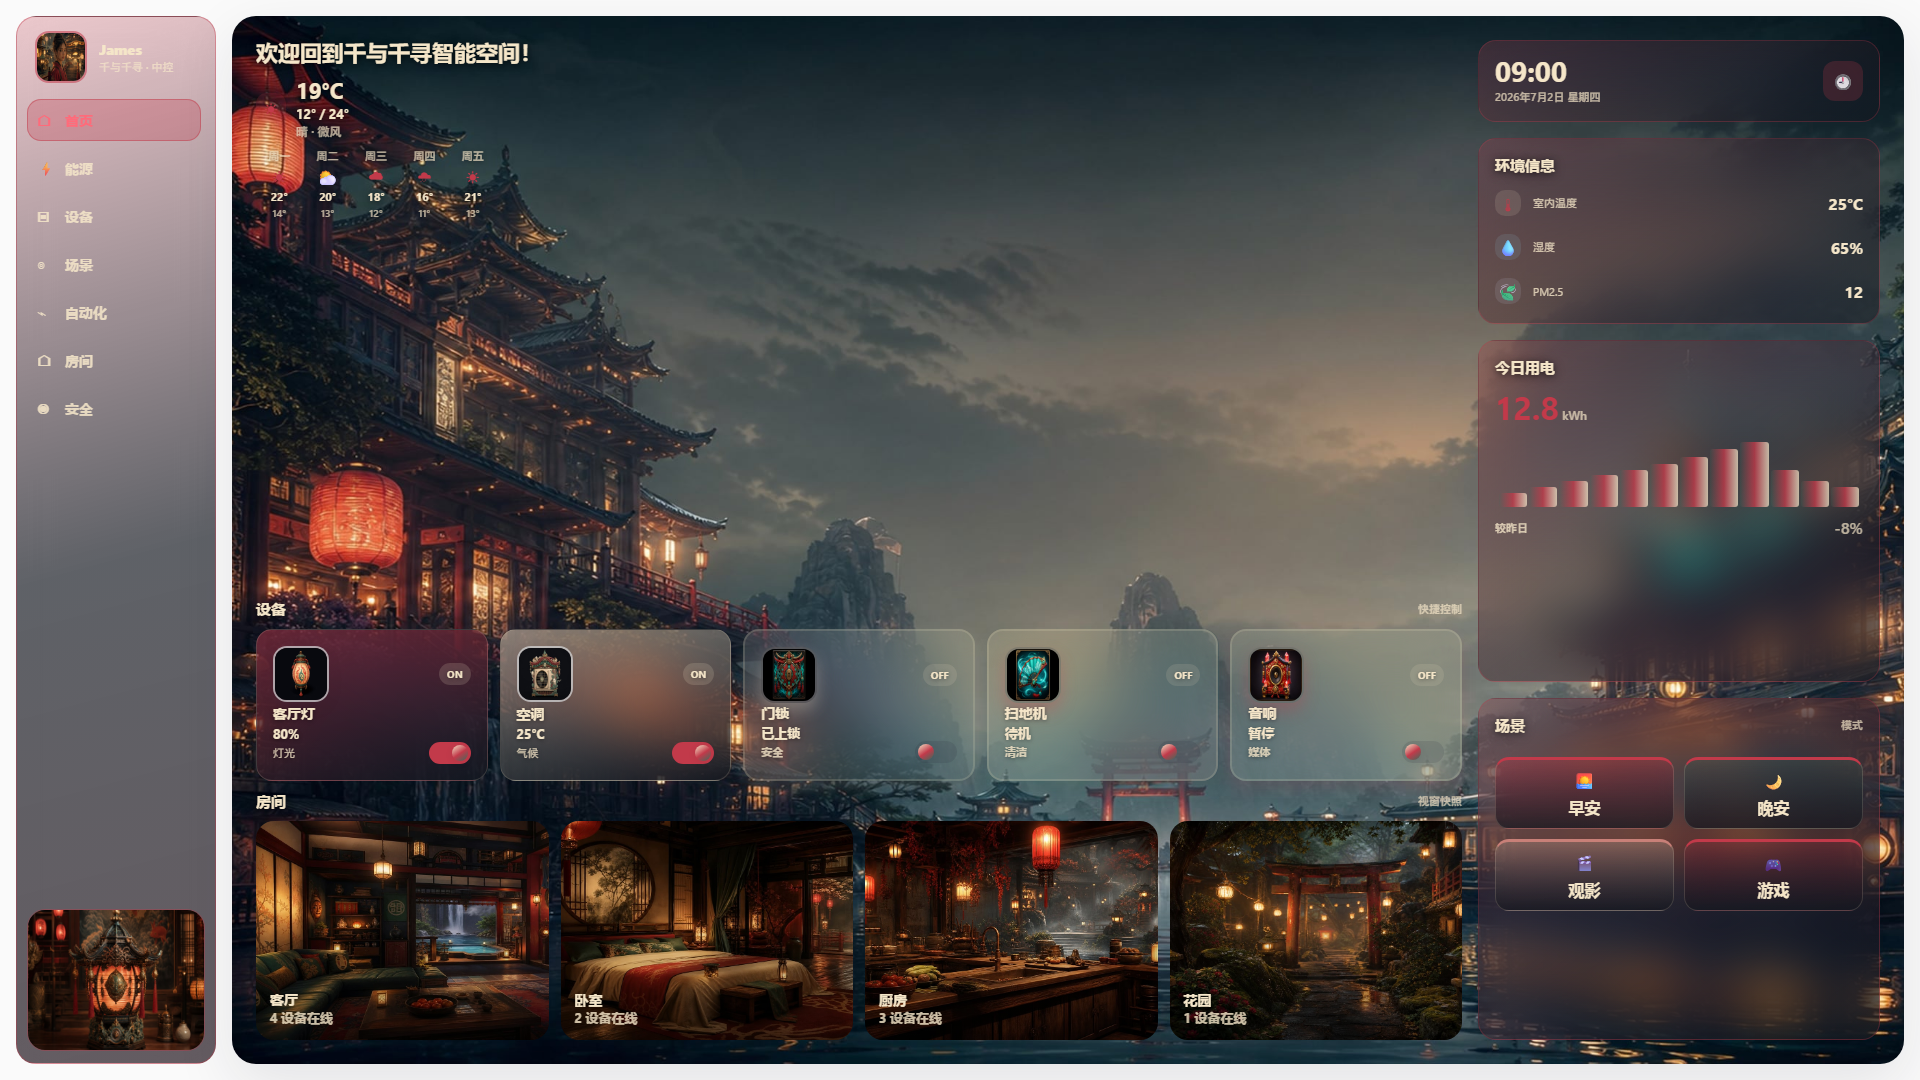
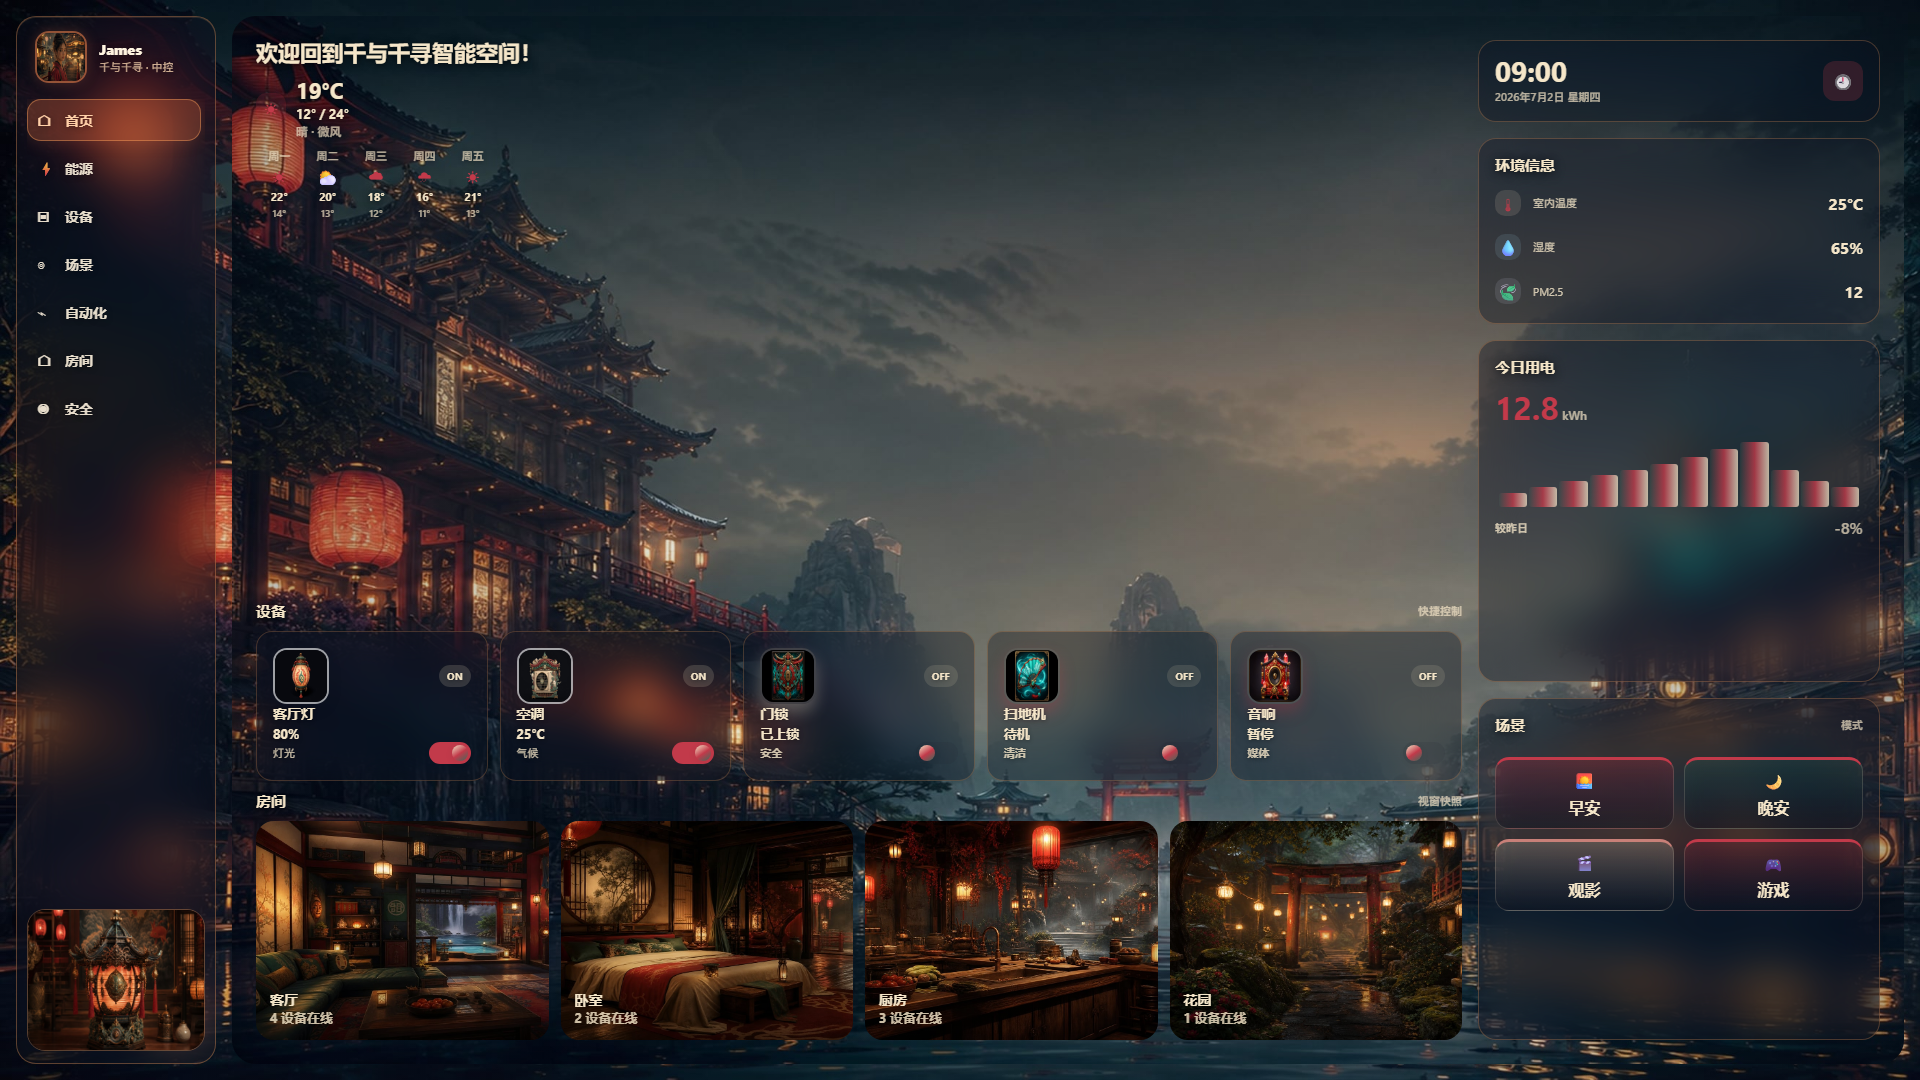
fix(skins): spirited-away translucent night-glass sidebar matching background

diff --git a/skins-pro/spirited-away/theme.css b/skins-pro/spirited-away/theme.css
@@ -814,6 +814,7 @@ button { font:inherit; }
 
 
 
+
 /* skins-pro weather layout patch */
 .welcome-group .welcome .quote { display:none; }
 
@@ -1132,44 +1133,62 @@ button { font:inherit; }
   }
 }
 
-/* skins-pro spirited-away polish v1 */
-/* 汤屋暖红磨砂侧栏，贴合首页玻璃卡；米白字可读 */
+/* skins-pro spirited-away polish v2 */
+/* 侧栏透出汤屋夜景：半透明夜色磨砂 + 灯笼暖边，贴近背景图 */
 :host {
-  --sp-sidebar-bg: linear-gradient(165deg, rgba(194, 58, 74, 0.28), rgba(20, 24, 32, 0.70) 48%, rgba(42, 28, 36, 0.72)) !important;
-  --sp-sidebar-text: #F5E6C9 !important;
-  --sp-sidebar-text-muted: rgba(245, 230, 201, 0.82) !important;
-  --sp-sidebar-active-bg: rgba(194, 58, 74, 0.30) !important;
-  --sp-sidebar-active-text: #FF6B7A !important;
+  --sp-app-overlay: linear-gradient(180deg, rgba(12, 16, 28, 0.18), rgba(12, 16, 28, 0.08) 40%, rgba(18, 22, 34, 0.22)) !important;
+  --sp-stage-overlay: linear-gradient(90deg, rgba(8, 12, 24, 0.28), rgba(8, 12, 24, 0.06) 36%, rgba(8, 12, 24, 0.10) 68%, rgba(8, 12, 24, 0.32)) !important;
+  --sp-sidebar-bg: rgba(16, 20, 32, 0.34) !important;
+  --sp-sidebar-text: #FFF4E0 !important;
+  --sp-sidebar-text-muted: rgba(255, 244, 224, 0.86) !important;
+  --sp-sidebar-active-bg: rgba(255, 120, 64, 0.28) !important;
+  --sp-sidebar-active-text: #FFB07A !important;
+  --sp-glass-bg: rgba(16, 20, 32, 0.38) !important;
+  --sp-panel-bg: rgba(16, 20, 32, 0.42) !important;
+  --sp-card-bg: linear-gradient(145deg, rgba(255, 120, 64, 0.16), rgba(16, 20, 32, 0.40)) !important;
   --sp-shadow-glass: none !important;
   --sp-shadow-card: none !important;
+  --sp-shadow-md: none !important;
+  --sp-shadow-lg: none !important;
+}
+.mc-app {
+  background-color: transparent !important;
+  background-image: var(--sp-app-overlay), var(--sp-base-texture) !important;
+  background-size: cover, cover !important;
+  background-position: center, center !important;
+}
+.stage {
+  background-color: transparent !important;
+  box-shadow: none !important;
 }
 .sidebar {
-  background: linear-gradient(165deg, rgba(194, 58, 74, 0.26), rgba(20, 24, 32, 0.68) 52%, rgba(36, 24, 32, 0.70)) !important;
-  border: 1px solid rgba(194, 58, 74, 0.42) !important;
-  box-shadow: none !important;
-  backdrop-filter: blur(28px) saturate(160%) !important;
-  -webkit-backdrop-filter: blur(28px) saturate(160%) !important;
+  background: rgba(14, 18, 30, 0.32) !important;
+  border: 1px solid rgba(255, 168, 96, 0.34) !important;
+  box-shadow: inset 0 1px 0 rgba(255, 200, 140, 0.12) !important;
+  backdrop-filter: blur(26px) saturate(145%) !important;
+  -webkit-backdrop-filter: blur(26px) saturate(145%) !important;
 }
 .profile .meta h3,
 .sidebar .profile h3 {
-  color: #F5E6C9 !important;
-  text-shadow: none !important;
+  color: #FFF4E0 !important;
+  text-shadow: 0 1px 8px rgba(0, 0, 0, 0.45) !important;
   font-weight: 800 !important;
 }
 .profile .meta .muted,
 .sidebar .muted {
-  color: rgba(245, 230, 201, 0.78) !important;
-  text-shadow: none !important;
+  color: rgba(255, 220, 180, 0.82) !important;
+  text-shadow: 0 1px 6px rgba(0, 0, 0, 0.40) !important;
 }
 .profile-img {
-  border-color: rgba(194, 58, 74, 0.55) !important;
-  box-shadow: none !important;
+  border-color: rgba(255, 140, 80, 0.55) !important;
+  box-shadow: 0 0 14px rgba(255, 120, 64, 0.22) !important;
 }
 .nav-button,
 .sidebar .nav-button {
-  color: rgba(245, 230, 201, 0.88) !important;
+  color: rgba(255, 244, 224, 0.90) !important;
   font-weight: 800 !important;
   opacity: 1 !important;
+  text-shadow: 0 1px 6px rgba(0, 0, 0, 0.40) !important;
 }
 .nav-button ha-icon,
 .nav-button .icon,
@@ -1181,14 +1200,14 @@ button { font:inherit; }
 .nav-button.active,
 .sidebar .nav-button:hover,
 .sidebar .nav-button.active {
-  color: #FF6B7A !important;
-  background: rgba(194, 58, 74, 0.28) !important;
-  box-shadow: inset 0 0 0 1px rgba(194, 58, 74, 0.48) !important;
+  color: #FFD0A8 !important;
+  background: rgba(255, 120, 64, 0.26) !important;
+  box-shadow: inset 0 0 0 1px rgba(255, 168, 96, 0.42), 0 0 18px rgba(255, 120, 64, 0.18) !important;
 }
 .sidebar-art {
   border-radius: 18px !important;
   overflow: hidden;
-  border: 1px solid rgba(194, 58, 74, 0.38);
+  border: 1px solid rgba(255, 168, 96, 0.32);
   box-shadow: none !important;
 }
 .glass-card,
@@ -1197,16 +1216,31 @@ button { font:inherit; }
 .panel-environment,
 .panel-scenes,
 .maintenance-card {
-  background: linear-gradient(145deg, rgba(194, 58, 74, 0.22), rgba(20, 24, 32, 0.58)) !important;
-  border: 1px solid rgba(194, 58, 74, 0.28) !important;
-  backdrop-filter: blur(22px) saturate(150%) !important;
-  -webkit-backdrop-filter: blur(22px) saturate(150%) !important;
+  background: rgba(14, 18, 30, 0.36) !important;
+  border: 1px solid rgba(255, 168, 96, 0.26) !important;
+  backdrop-filter: blur(22px) saturate(145%) !important;
+  -webkit-backdrop-filter: blur(22px) saturate(145%) !important;
   box-shadow: none !important;
-  color: #F5E6C9 !important;
+  color: #FFF4E0 !important;
 }
 .panel-scenes .scene,
 .scene {
   box-shadow: none !important;
 }
-/* end skins-pro spirited-away polish v1 */
+.devices .device,
+.devices-page-grid .device,
+.camera-card {
+  background: rgba(14, 18, 30, 0.34) !important;
+  border: 1px solid rgba(255, 168, 96, 0.22) !important;
+  box-shadow: none !important;
+  backdrop-filter: blur(18px) saturate(145%) !important;
+  -webkit-backdrop-filter: blur(18px) saturate(145%) !important;
+  color: #FFF4E0 !important;
+}
+.devices .device.device-on,
+.devices-page-grid .device.device-on {
+  background: linear-gradient(145deg, rgba(255, 120, 64, 0.28), rgba(14, 18, 30, 0.40)) !important;
+  border-color: rgba(255, 140, 80, 0.40) !important;
+}
+/* end skins-pro spirited-away polish v2 */
 
